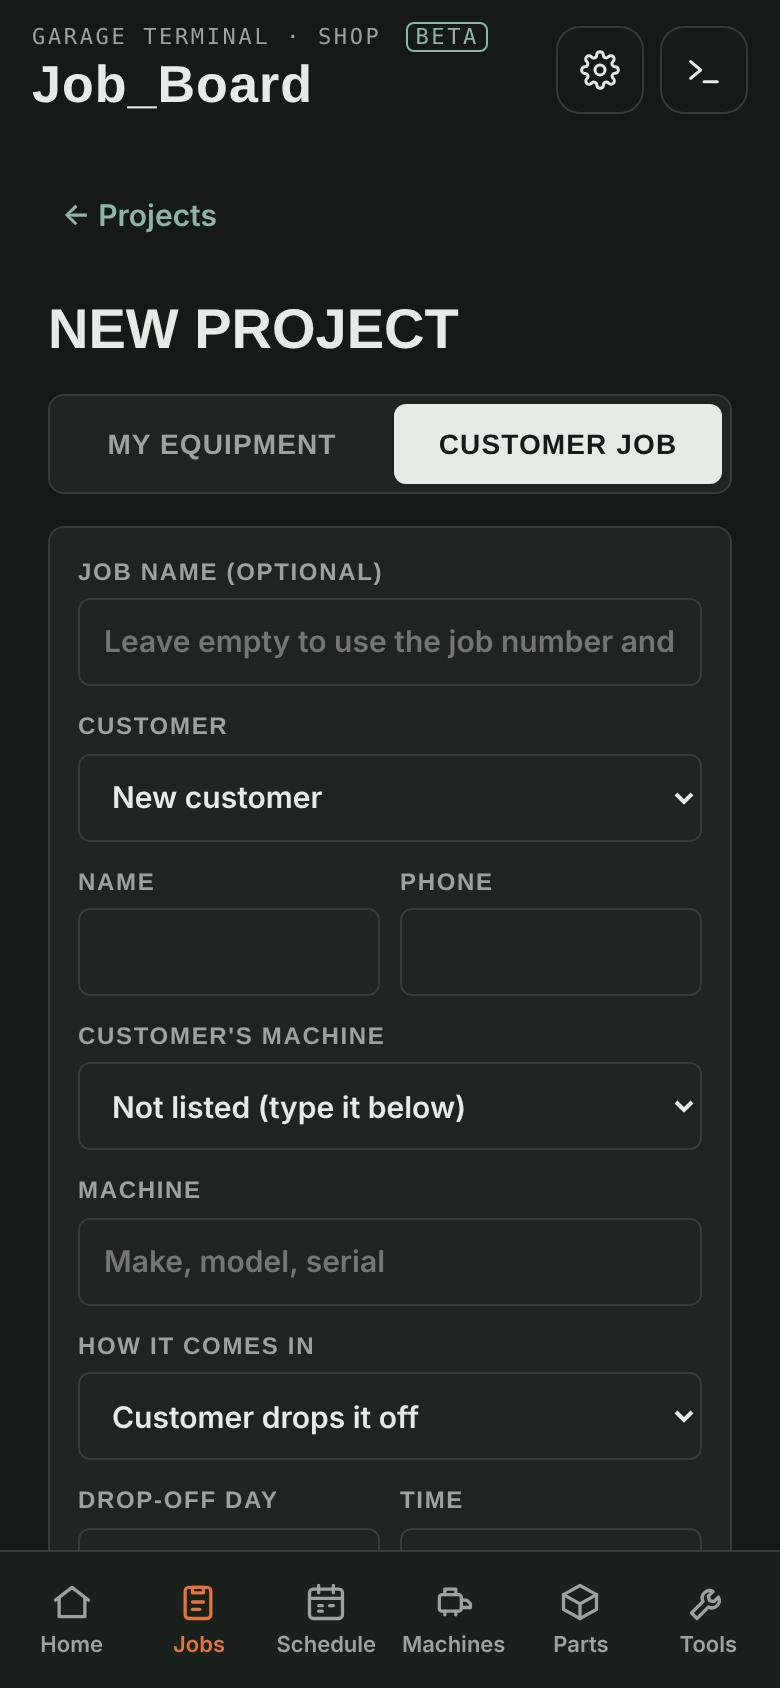
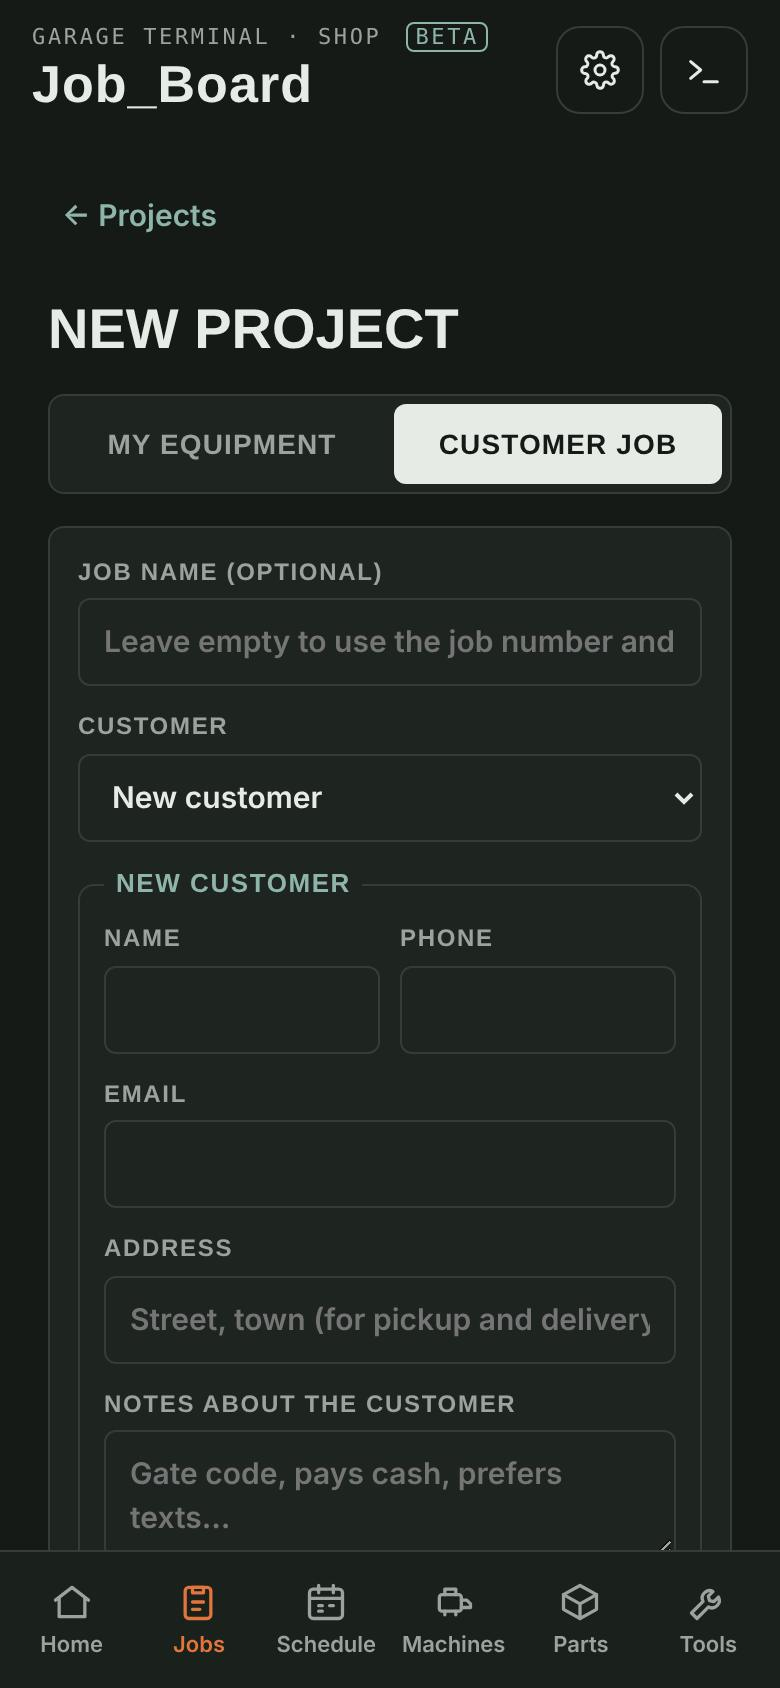
Guide: retake screenshots at 10:30 AM; new job form with the New customer box
Claude-Session: https://claude.ai/code/session_01QQrue3sjUaX32RhGQVD9jY

diff --git a/shop/guide/index.html b/shop/guide/index.html
@@ -86,8 +86,8 @@ footer{border-top:1px solid var(--line);margin-top:40px;padding-top:20px;color:v
     <div class="say"><span class="num">OWNER 2</span><h3>Jobs: every job in one list</h3><p>The Jobs tab is Job_Board. Customer jobs and your own projects live here.</p><ol><li><span class="lb">+ New</span> Check a machine in. Customer jobs get the next job number (J-014, J-015…).</li><li><span class="lb">Shopping list</span> Parts still to order across all jobs, with a count.</li><li><span class="lb">Search</span> Find a job by customer, machine, part or note.</li><li><span class="lb">Customers</span> Your customer list: phone, address, their machines and every job they've had.</li><li><span class="lb">Filters</span> Everyone, Assigned to me, or Not assigned (with employees on).</li><li><span class="lb">A job card</span> Progress, the next task, and whether its parts are on your shelf. Tap to open.</li></ol></div>
   </section>
   <section class="step" id="owner-job-new">
-    <div class="shot"><img src="/img/guide/job-new.jpg" width="780" height="1688" alt="New customer job form" loading="lazy"><span class="dot" style="left:62.56%;top:23.93%" aria-hidden="true">1</span><span class="dot" style="left:4.62%;top:47.16%" aria-hidden="true">2</span><span class="dot" style="left:4.62%;top:65.52%" aria-hidden="true">3</span><span class="dot" style="left:4.62%;top:83.89%" aria-hidden="true">4</span></div>
-    <div class="say"><span class="num">OWNER 3</span><h3>Checking a machine in</h3><p>Tap <b>+ New</b>, then <b>Customer job</b>.</p><ol><li><span class="lb">Customer job</span> Customer jobs get a job number, customer info, invoices and the schedule.</li><li><span class="lb">Customer</span> Pick a customer from your list, or New customer and type their name and phone.</li><li><span class="lb">Their machine</span> Pick one of their machines to keep its history, or type it in.</li><li><span class="lb">How it comes in</span> They drop it off or you pick it up, the day and time, the promised date, and how it goes back.</li></ol></div>
+    <div class="shot"><img src="/img/guide/job-new.jpg" width="780" height="1688" alt="New customer job form" loading="lazy"><span class="dot" style="left:62.56%;top:23.93%" aria-hidden="true">1</span><span class="dot" style="left:4.62%;top:47.16%" aria-hidden="true">2</span><span class="dot" style="left:4.62%;top:52.25%" aria-hidden="true">3</span><span class="dot" style="left:4.62%;top:78.20%" aria-hidden="true">4</span></div>
+    <div class="say"><span class="num">OWNER 3</span><h3>Checking a machine in</h3><p>Tap <b>+ New</b>, then <b>Customer job</b>. Below these: their machine, how it comes in, the dates and how it goes back.</p><ol><li><span class="lb">Customer job</span> Customer jobs get a job number, customer info, invoices and the schedule.</li><li><span class="lb">Customer</span> Pick someone from your customer list and their details fill in, so you go straight to the machine. Or leave it on New customer.</li><li><span class="lb">New customer</span> Name, phone, email, address and notes. They're added to your customer list.</li><li><span class="lb">Address</span> Used for pickup and delivery, and for checking the distance in Maps.</li></ol></div>
   </section>
   <section class="step" id="owner-job">
     <div class="shot"><img src="/img/guide/job.jpg" width="780" height="1688" alt="A customer job" loading="lazy"><span class="dot" style="left:69.49%;top:10.31%" aria-hidden="true">1</span><span class="dot" style="left:37.44%;top:26.30%" aria-hidden="true">2</span><span class="dot" style="left:19.49%;top:32.58%" aria-hidden="true">3</span><span class="dot" style="left:4.62%;top:48.58%" aria-hidden="true">4</span><span class="dot" style="left:4.62%;top:57.23%" aria-hidden="true">5</span><span class="dot" style="left:4.62%;top:73.70%" aria-hidden="true">6</span></div>
